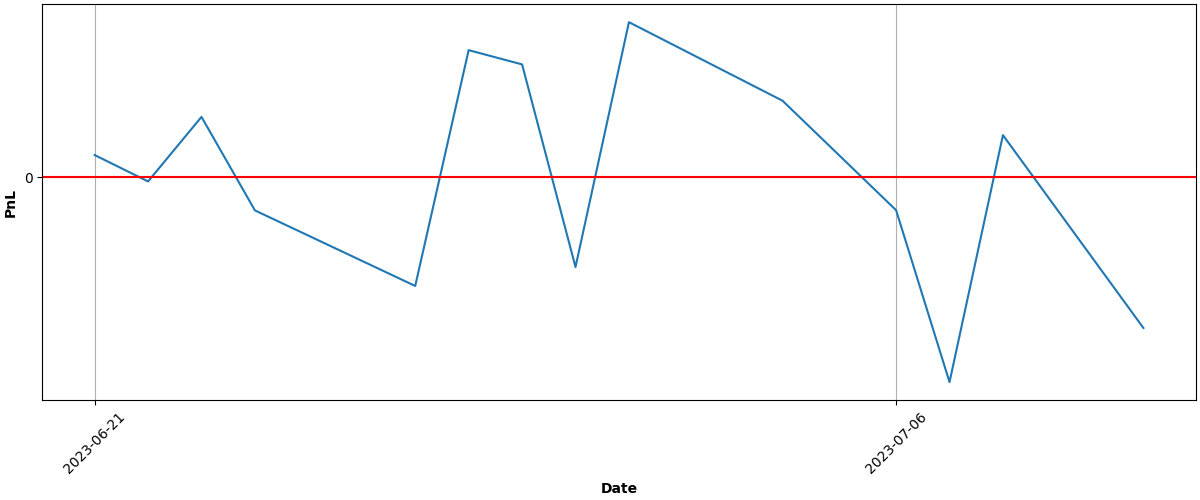
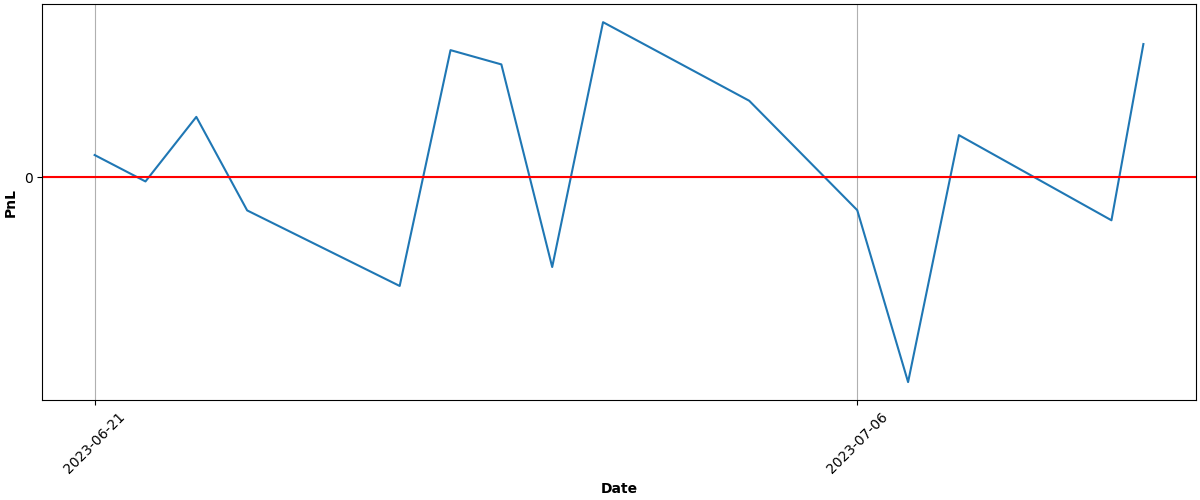
Automated Buy At Tue Jul 11 15:04:26 UTC 2023 Run ID 5521638541

diff --git a/README.md b/README.md
@@ -68,9 +68,9 @@ Results
 
 | Asset | Average Price | Current Price | ROI | 📈 |
 | --- | --- | --- | --- | --- |
-| FNGU | $183.818718402 | $178.885 | -2.68% | &#128308;&#128546; |
-| SVIX | $26.319766667 | $26.79 | 1.79% | &#128994;&#128515; |
-| **Total** |  |  | **-0.39%** | &#128308;&#128557; |
+| FNGU | $183.784201553 | $183.37 | -0.23% | &#128308;&#128546; |
+| SVIX | $26.319766667 | $27.71 | 5.28% | &#128994;&#128515; |
+| **Total** |  |  | **2.51%** | &#128994;&#128518; |
 
 ### PnL over time (calculations may not be accurate):
 
@@ -81,6 +81,6 @@ Results
 ---
 
 
-Updated at 2023-07-10 15:05:00
+Updated at 2023-07-11 15:04:44
 
 
